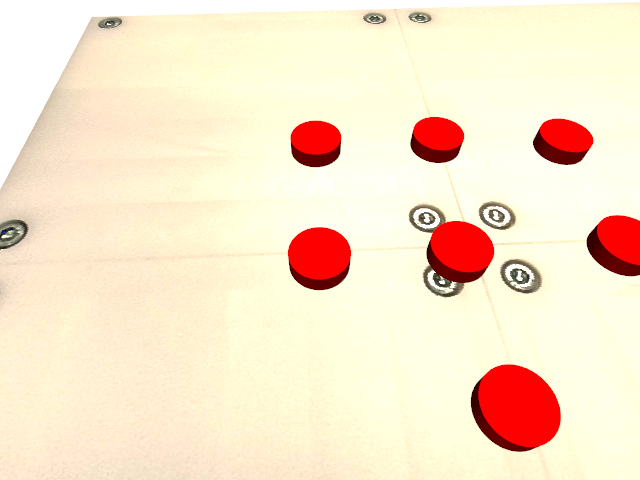
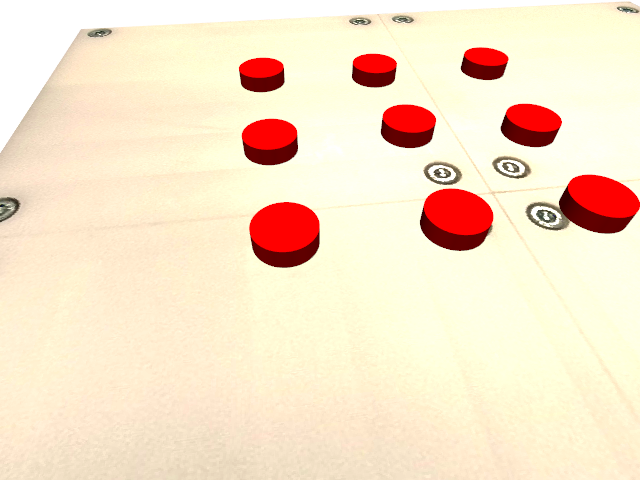
update

diff --git a/dataset.py b/dataset.py
@@ -37,19 +37,19 @@ class DirectionDataset(Dataset):
 
     def __getitem__(self, idx):
         state = self.state_list[idx]
-        # sphere_pos = state["sphere_pos"]
+        # cylinder_pos = state["cylinder_pos"]
         # focal_pt = state["focal_pos"]
         camera_pos = np.array(state["camera_pos"])
         camera_front = np.array(state["camera_front"])
-        sphere_dir = np.array(state["sphere_dir"])
+        cylinder_dir = np.array(state["cylinder_dir"])
         distance = np.array(state["distance"])
         image = self.image_list[idx]
         image = torch.tensor(image, dtype=torch.float)
         camera_pos = torch.tensor(camera_pos, dtype=torch.float)
         camera_front = torch.tensor(camera_front, dtype=torch.float)
-        sphere_dir = torch.tensor(sphere_dir, dtype=torch.float)
+        cylinder_dir = torch.tensor(cylinder_dir, dtype=torch.float)
         distance = torch.tensor(distance, dtype=torch.float).reshape(1)
-        return image, camera_pos, camera_front, sphere_dir, distance
+        return image, camera_pos, camera_front, cylinder_dir, distance
 
     def cache(self):
         data = {

diff --git a/train.py b/train.py
@@ -54,16 +54,16 @@ def train(config):
     losses_dist = []
 
     for epoch in range(num_epochs):
-        for img_feature, camera_pos, camera_front, sphere_dir, distance in dataloader:
+        for img_feature, camera_pos, camera_front, cylinder_dir, distance in dataloader:
             img_feature = img_feature.to(device)
             camera_pos = camera_pos.to(device)
             camera_front = camera_front.to(device)
             optimizer.zero_grad()
             out_dir, out_dist = model(img_feature, camera_pos, camera_front)
-            sphere_dir = sphere_dir.to(device)
+            cylinder_dir = cylinder_dir.to(device)
             distance = distance.to(device)
 
-            loss_dir = loss_fn_dir(out_dir, sphere_dir)
+            loss_dir = loss_fn_dir(out_dir, cylinder_dir)
             loss_dist = loss_fn_dist(out_dist, distance)
             total_loss = 10 * loss_dir + loss_dist
             losses_dir.append(loss_dir.item())

diff --git a/test.py b/test.py
@@ -59,15 +59,15 @@ def test(config):
     loss_dir_list = []
     loss_dist_list = []
 
-    for img_feature, camera_pos, camera_front, sphere_dir, distance in tqdm(dataloader):
+    for img_feature, camera_pos, camera_front, cylinder_dir, distance in tqdm(dataloader):
         img_feature = img_feature.to(device)
         camera_pos = camera_pos.to(device)
         camera_front = camera_front.to(device)
         out_dir, out_dist = model(img_feature, camera_pos, camera_front)
-        sphere_dir = sphere_dir.to(device)
+        cylinder_dir = cylinder_dir.to(device)
         distance = distance.to(device)
 
-        loss_dir = loss_fn_dir(out_dir, sphere_dir).item()
+        loss_dir = loss_fn_dir(out_dir, cylinder_dir).item()
         loss_dist = loss_fn_dist(out_dist, distance).item()
 
         loss_dir_list.append(loss_dir)

diff --git a/collect_data.py b/collect_data.py
@@ -147,13 +147,16 @@ def take_photo_wrapper(idx, image_dir, state_dir):
     plane_size = 20
     cylinder_radius = 0.6
     cylinder_height = 0.4
-
+    
+    overall_shift_x = random.uniform(-4, 4)
+    overall_shift_y = random.uniform(-4, 4)
+    
     start_idx = random.randint(0, 8)
     cylinder_position_list = []
     for n in range(start_idx, 9):
         i, j = divmod(n, 3)
-        x = -3 + i * 3 + random.uniform(-0.2, 0.2)
-        y = -3 + j * 3 + random.uniform(-0.2, 0.2)
+        x = overall_shift_x - 3 + i * 3 + random.uniform(-0.2, 0.2)
+        y = overall_shift_y - 3 + j * 3 + random.uniform(-0.2, 0.2)
         cylinder_position = [x, y, cylinder_height * 0.5]
         cylinder_position_list.append(cylinder_position)
     
